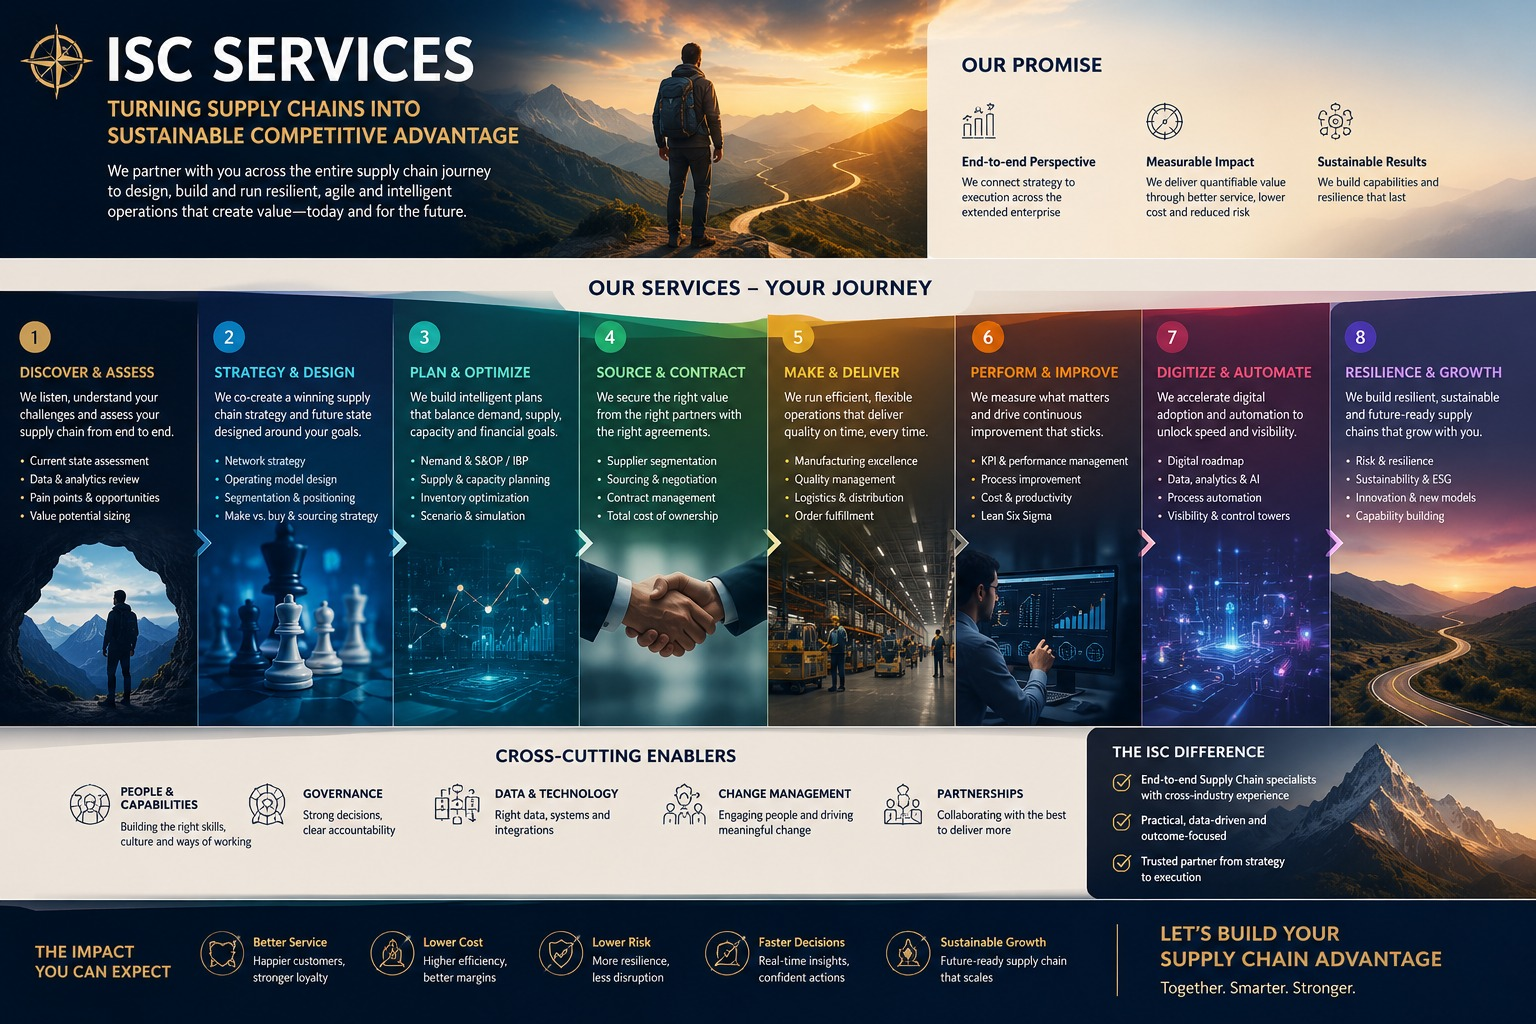
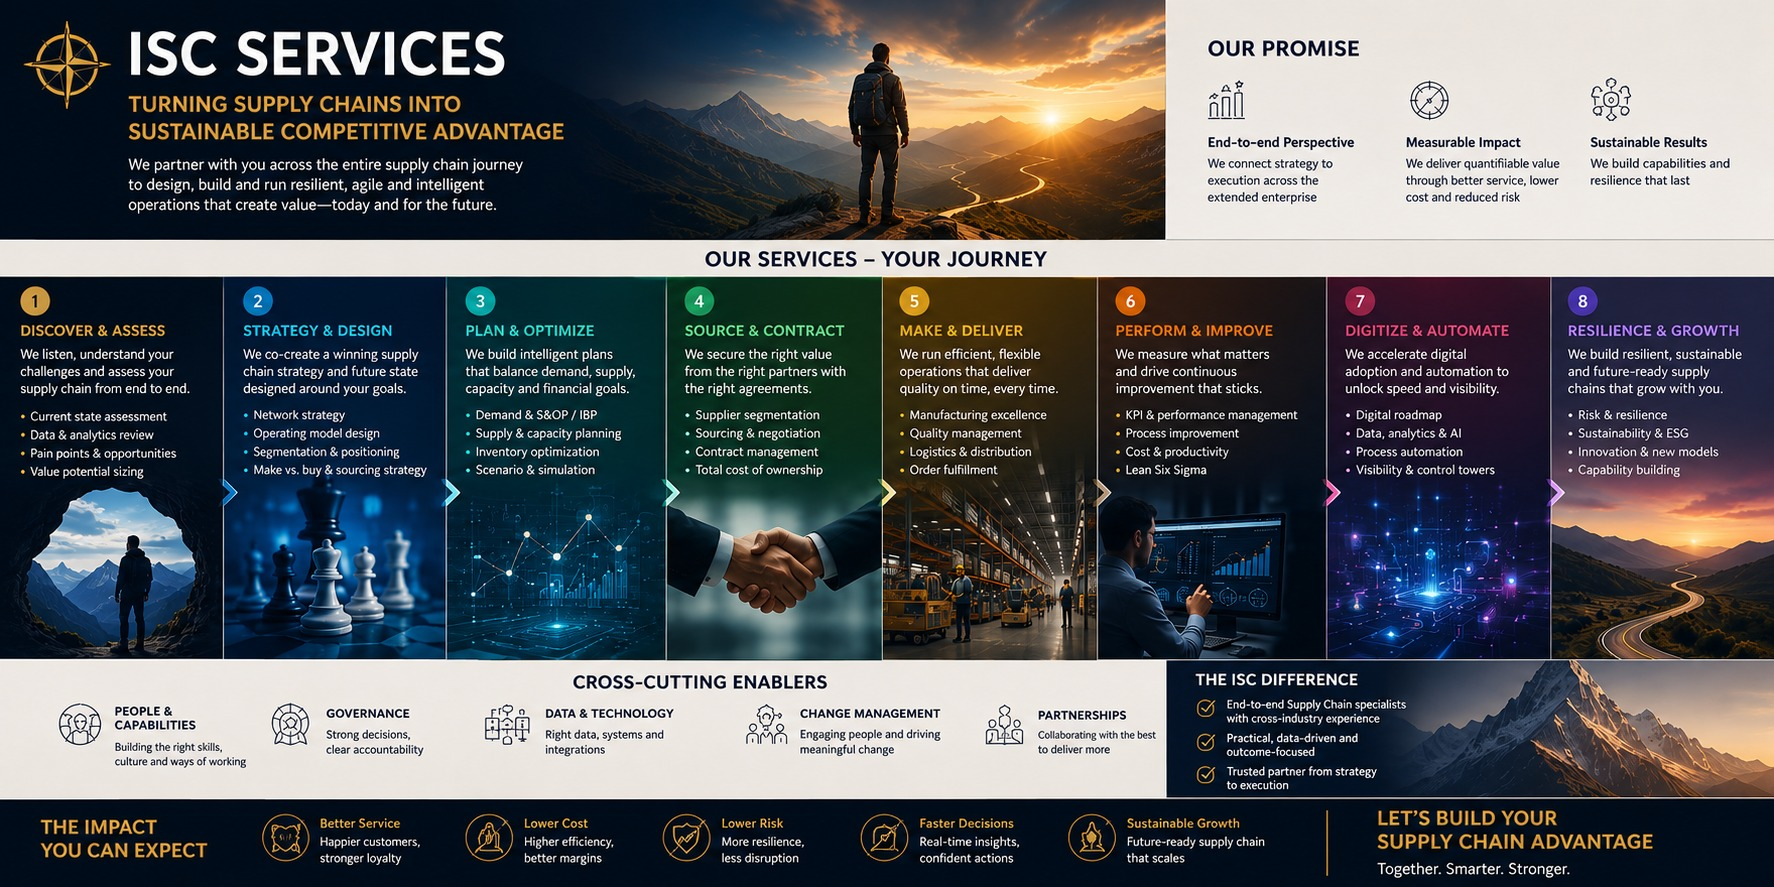
hero: trial swap journey slide to regenerated 2:1 image -- prove full-width/no-scroll fix live

diff --git a/artifacts/i-supply-chain/src/pages/Home.tsx b/artifacts/i-supply-chain/src/pages/Home.tsx
@@ -203,7 +203,7 @@ function StatCard({ value, suffix, label }: { value: number; suffix: string; lab
 
 // ─── Hero service carousel ───────────────────────────────────────────────────
 const heroSlides = [
-  { src: '/brand/hero-service-journey.jpg?v=1', alt: 'ISC Services — Our Journey', label: 'Our Services Journey', labelAr: 'رحلة خدماتنا' },
+  { src: '/brand/hero-service-journey.jpg?v=2', alt: 'ISC Services — Our Journey', label: 'Our Services Journey', labelAr: 'رحلة خدماتنا' },
   { src: '/brand/hero-service-advantage.jpg?v=1', alt: 'ISC — Supply Chain Advantage', label: 'Supply Chain Advantage', labelAr: 'ميزة سلسلة الإمداد التنافسية' },
   { src: '/brand/hero-service-maturity.jpg?v=1', alt: 'ISC Maturity Assessment', label: 'Maturity Assessment', labelAr: 'تقييم النضج' },
   { src: '/brand/hero-service-kpi.jpg?v=1', alt: 'ISC KPIs & Benchmarking', label: 'KPIs & Benchmarking', labelAr: 'مؤشرات الأداء والمقارنة المرجعية' },
@@ -237,7 +237,7 @@ function useHeroCarousel() {
 // close enough to blend in) -- this is the shared box the hero section is
 // sized to, so the image can fill it edge-to-edge at full viewport width
 // with zero cropping and zero letterbox on either axis for 7 of 8 slides.
-const HERO_ASPECT_RATIO = 1536 / 1024;
+const HERO_ASPECT_RATIO = 1774 / 887; // trial: journey slide regenerated at 2:1 -- other 7 slides pillarbox until replaced
 
 // The presentation image itself -- a full-bleed layer that fills the entire
 // hero section, which is itself sized to this exact aspect ratio (see the
